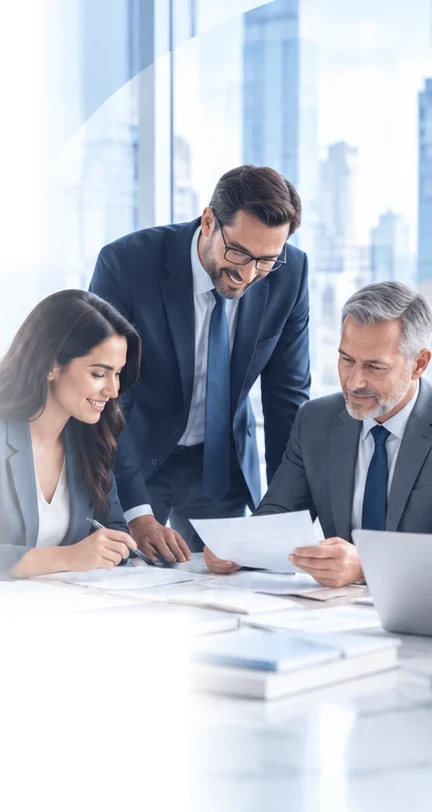
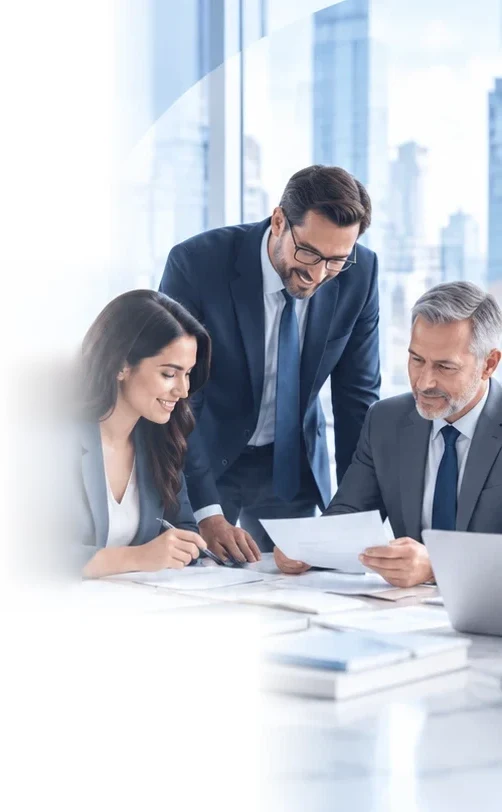
Remove the cut line at the woman in the phone home hero
The photo ended exactly at the woman's shoulder, so her jacket and hair
still stopped in a straight line however the edge was faded. The image
now carries a blurred strip past that edge which fades to white, and the
curved mask sits over it, so she dissolves into the page instead.

diff --git a/src/routes/index.tsx b/src/routes/index.tsx
@@ -112,16 +112,17 @@ function Hero() {
        * navy copy readable while the advisers stay clear on the right, as in the approved design.
        */}
       {/* Phones use the advisers photo cut from the approved mobile design (its baked-in text and
-          buttons removed), in the same place: the right half, from just above the heading. Its
-          left edge fades along a curve (no straight cut) and its top and bottom fade into the
-          white, so the copy beside it sits on plain white. */}
+          buttons removed), in the same place: the right half, from just above the heading. The file
+          carries a blurred strip past the woman's shoulder that fades to white, and the left edge
+          fades along a curve, so she is never cut off in a straight line. The top and bottom fade
+          into the white too, so the copy beside it sits on plain white. */}
       <img
         src={heroMobileImage}
         alt=""
-        width={432}
+        width={502}
         height={812}
         fetchPriority="high"
-        className="absolute top-[4.5rem] right-0 -z-10 hidden h-auto w-1/2 [mask-composite:intersect] [mask-image:radial-gradient(ellipse_100%_70%_at_100%_50%,black_90%,transparent),linear-gradient(to_bottom,transparent,black_16%,black_70%,transparent)] max-sm:block"
+        className="absolute top-[4.5rem] right-0 -z-10 hidden h-auto w-[58.1%] [mask-composite:intersect] [mask-image:radial-gradient(ellipse_100%_70%_at_100%_50%,black_85%,transparent),linear-gradient(to_bottom,transparent,black_16%,black_70%,transparent)] max-sm:block"
       />
       <div className="absolute inset-0 -z-10 max-sm:hidden">
         <img
